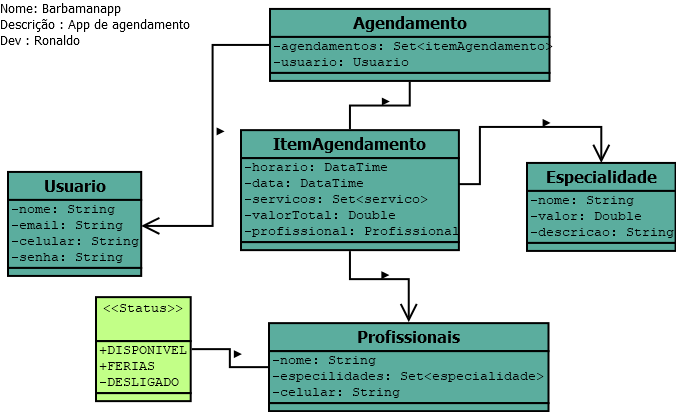
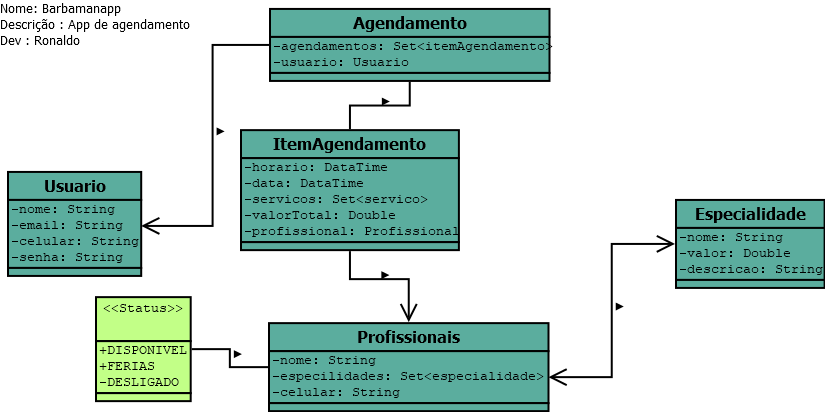
Fix Relacionamento UML Especialidade/Profissional

Changed region(s): [[0.0, 0.0, 0.8388, 0.6699], [0.0932, 0.2913, 1.0, 1.0]]

diff --git a/backend/src/main/java/com/agendamento/barbaman/entities/Agendamento.java b/backend/src/main/java/com/agendamento/barbaman/entities/Agendamento.java
@@ -4,13 +4,34 @@ import java.io.Serializable;
 import java.util.HashSet;
 import java.util.Set;
 
+import javax.persistence.CascadeType;
+import javax.persistence.Column;
+import javax.persistence.Entity;
+import javax.persistence.GeneratedValue;
+import javax.persistence.GenerationType;
+import javax.persistence.Id;
+import javax.persistence.JoinColumn;
+import javax.persistence.OneToMany;
+import javax.persistence.Table;
+
+@Entity
+@Table(name = "tb_agendamento")
 public class Agendamento implements Serializable {
 	
 	
 	private static final long serialVersionUID = 1L;
+	
+	@Id
+	@GeneratedValue(strategy = GenerationType.IDENTITY)
+	@Column(name = "id")
+	
 	private Long id;
-	private Set<ItemAgendamento> agendamentos = new HashSet<>();
 	private Usuario usuario;
+	
+	@OneToMany(cascade = CascadeType.ALL)
+	@JoinColumn(name = "agendamentos_id",referencedColumnName = "id")
+	private Set<ItemAgendamento> agendamentos = new HashSet<>();
+	
 	
 	public Long getId() {
 		return id;

diff --git a/backend/src/main/java/com/agendamento/barbaman/entities/Especialidade.java b/backend/src/main/java/com/agendamento/barbaman/entities/Especialidade.java
@@ -2,6 +2,10 @@ package com.agendamento.barbaman.entities;
 
 import java.io.Serializable;
 
+import javax.persistence.Entity;
+import javax.persistence.Table;
+@Entity
+@Table(name = "tb_especialidade")
 public class Especialidade implements Serializable {
 	
 
